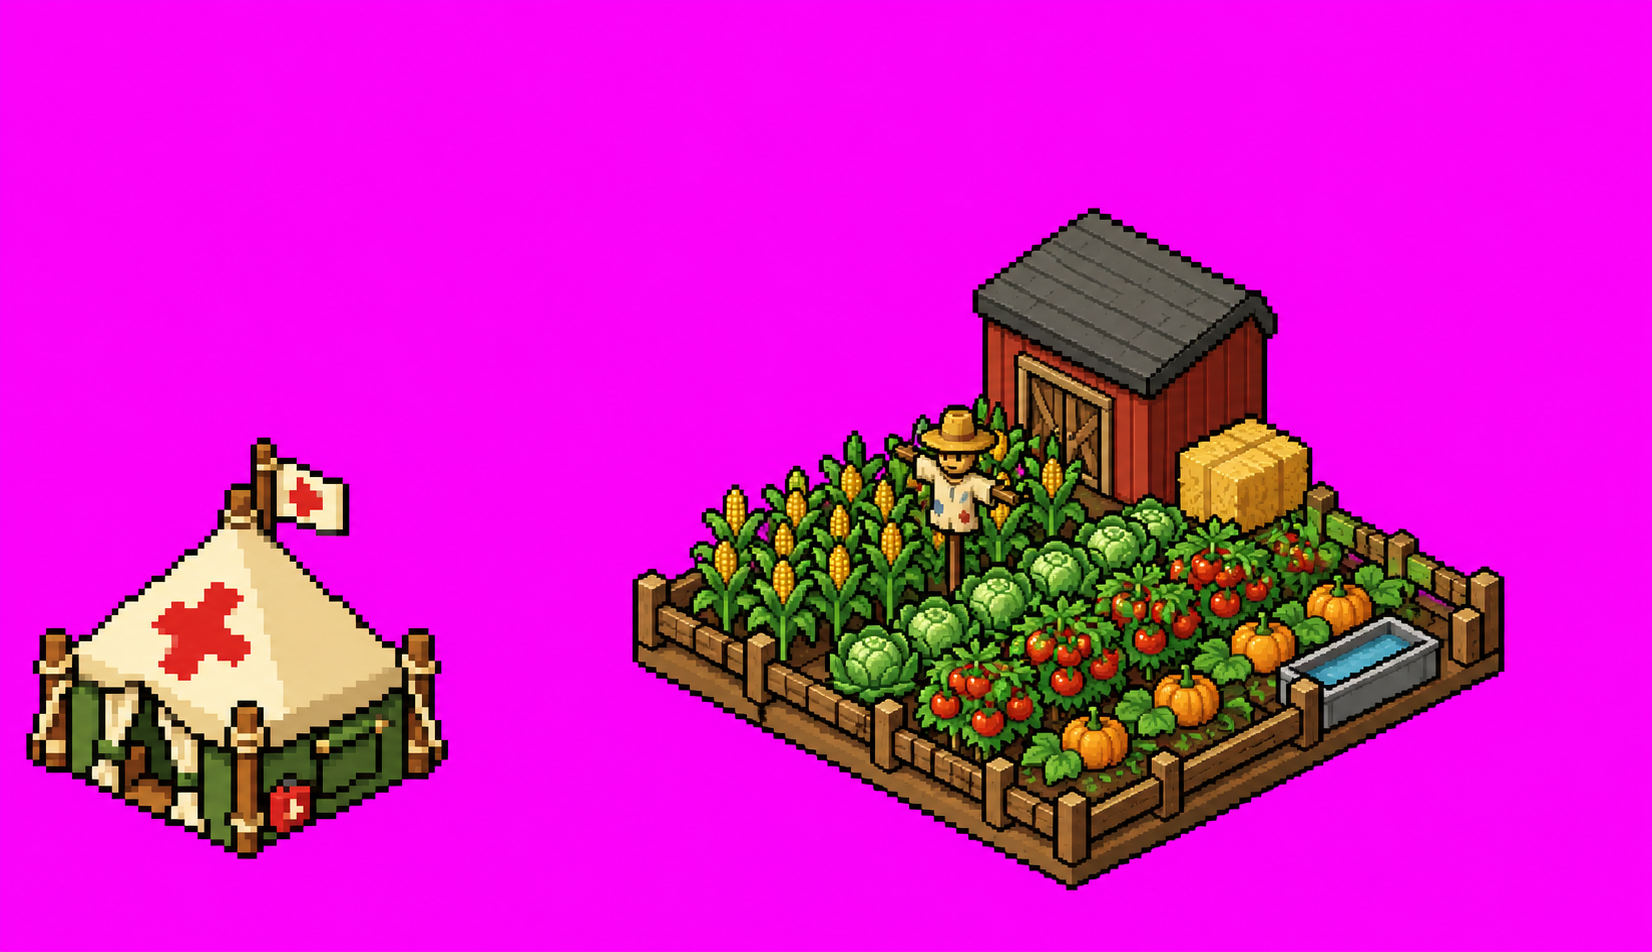
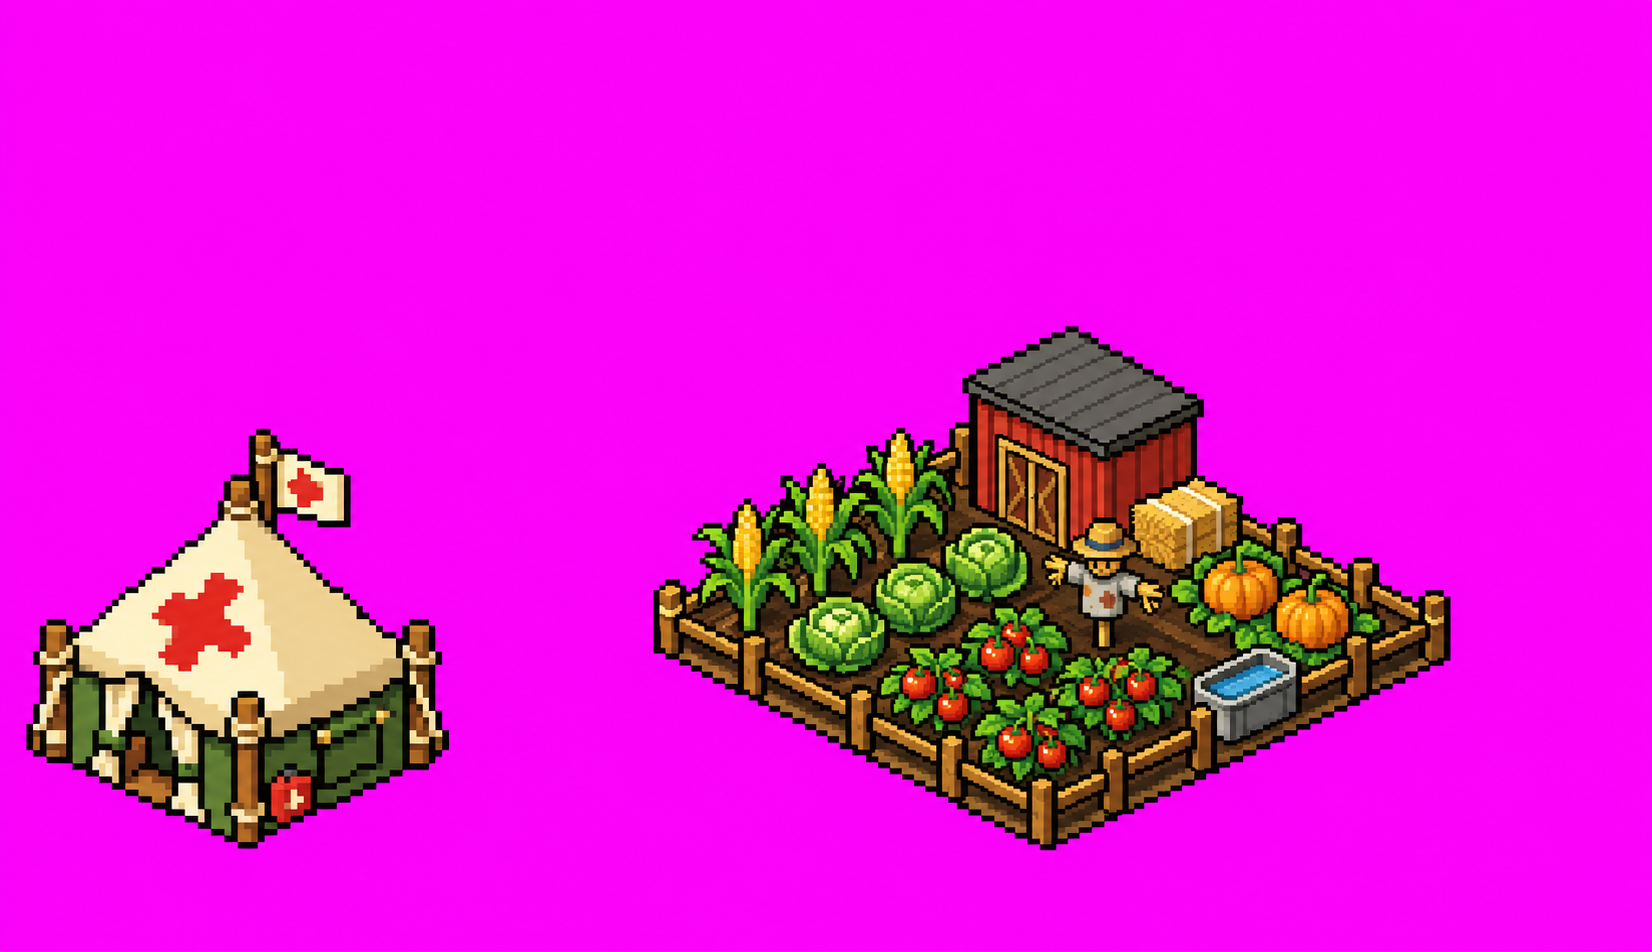
56-tile Farm (2x2, 124x82 art px, read at 6.44) + crops rippling and scarecrow sway (12f); back model guide; test map widened to 14 tiles for the 2x2 buildings
Claude-Session: https://claude.ai/code/session_014xWrqmw1tDuMEr3xW9Kw6Z

Changed region(s): [[0.3705, 0.2132, 0.9262, 0.9443], [0.0, 0.4569, 0.2778, 0.9139]]

diff --git a/tools/art/showcase/building_test_template.html b/tools/art/showcase/building_test_template.html
@@ -46,12 +46,12 @@ canvas { image-rendering: pixelated; image-rendering: crisp-edges; display: bloc
   </div>
   <div class="stage"><canvas id="cv" aria-label="Isometric test map with the Medical Tent, the House and a walking farmer"></canvas></div>
   <div class="cards" id="cards"></div>
-  <p class="note">Buildings turn clockwise. 0° and 180° are drawn (front and back); 90° is the back mirrored and 270° is the front mirrored by the game. Animations: tent flag 6 frames at 140 ms, house smoke 12 frames at 130 ms, rain collector tarp drops + tap drip 20 frames at 110 ms, garden plot scarecrow and crops 12 frames at 150 ms, well bucket and water 21 frames at 150 ms, storage tarp 8 frames at 140 ms, gym bag 8 frames at 160 ms, library lamp flicker 8 frames at 150 ms, lounge lights 6 frames at 220 ms, clinic flag and smoke 12 frames at 130 ms, canteen fire, sparks and steam 8 frames at 140 ms, armory lamp 8 frames at 160 ms, workshop welding sparks 10 frames at 110 ms, scrapyard crane hook 8 frames at 160 ms, archery range arrow and target 14 frames at 110 ms, obstacle course pennant 6 frames at 140 ms, hospital windows (one failing bulb) 12 frames at 150 ms, farmer walk 6 frames at 200 ms.</p>
+  <p class="note">Buildings turn clockwise. 0° and 180° are drawn (front and back); 90° is the back mirrored and 270° is the front mirrored by the game. Animations: tent flag 6 frames at 140 ms, house smoke 12 frames at 130 ms, rain collector tarp drops + tap drip 20 frames at 110 ms, garden plot scarecrow and crops 12 frames at 150 ms, well bucket and water 21 frames at 150 ms, storage tarp 8 frames at 140 ms, gym bag 8 frames at 160 ms, library lamp flicker 8 frames at 150 ms, lounge lights 6 frames at 220 ms, clinic flag and smoke 12 frames at 130 ms, canteen fire, sparks and steam 8 frames at 140 ms, armory lamp 8 frames at 160 ms, workshop welding sparks 10 frames at 110 ms, scrapyard crane hook 8 frames at 160 ms, archery range arrow and target 14 frames at 110 ms, obstacle course pennant 6 frames at 140 ms, hospital windows (one failing bulb) 12 frames at 150 ms, farm crops and scarecrow 12 frames at 150 ms, farmer walk 6 frames at 200 ms.</p>
 </div>
 
 <script>
 const A = __ASSETS__;
-const TW = 56, TH = 28, N = 12;
+const TW = 56, TH = 28, N = 14;   // 12 + a 2-tile strip on the right for the 2x2 buildings
 const ROT = ['0° front', '90° back mirrored', '180° back', '270° front mirrored'];
 // clockwise turn: 0° front, 90° back mirrored, 180° back, 270° front mirrored
 const VIEW = (r) => (r === 1 || r === 2) ? 1 : 0;
@@ -73,7 +73,8 @@ const B = [
   { key: 'range', x: 7, y: 9, rot: 0 },
   { key: 'track', x: 4, y: 11, rot: 0 },
   { key: 'sparring', x: 7, y: 11, rot: 0 },
-  { key: 'hospital', x: 10, y: 3, rot: 0 },
+  { key: 'hospital', x: 13, y: 3, rot: 0 },
+  { key: 'field', x: 13, y: 6, rot: 0 },
 ];
 const PATH = [[1, 1], [11, 1], [11, 10], [1, 10]];   // tile corners of the farmer's loop (he walks tile centres)
 const OX = N * TW / 2 + 4, OY = 60, W = N * TW + 8, H = OY + N * TH + 8;
@@ -83,7 +84,7 @@ let zoom = 3, anim = true, showFarmer = true, showGrid = false;
 const img = {};
 let loading = 0;
 function load(k, src) { loading++; const i = new Image(); i.onload = () => { loading--; }; i.src = src; img[k] = i; }
-for (const k of ['tent', 'house', 'water', 'farm', 'well', 'storage', 'gym', 'library', 'lounge', 'clinic', 'canteen', 'armory', 'workshop', 'scrapyard', 'range', 'track', 'sparring', 'hospital']) A[k].views.forEach((v, i) => load(k + i, v.src));
+for (const k of ['tent', 'house', 'water', 'farm', 'well', 'storage', 'gym', 'library', 'lounge', 'clinic', 'canteen', 'armory', 'workshop', 'scrapyard', 'range', 'track', 'sparring', 'hospital', 'field']) A[k].views.forEach((v, i) => load(k + i, v.src));
 load('walk_se', A.walk_se.src); load('walk_ne', A.walk_ne.src);
 
 const P = (tx, ty) => [OX + (tx - ty) * TW / 2, OY + (tx + ty) * TH / 2];
